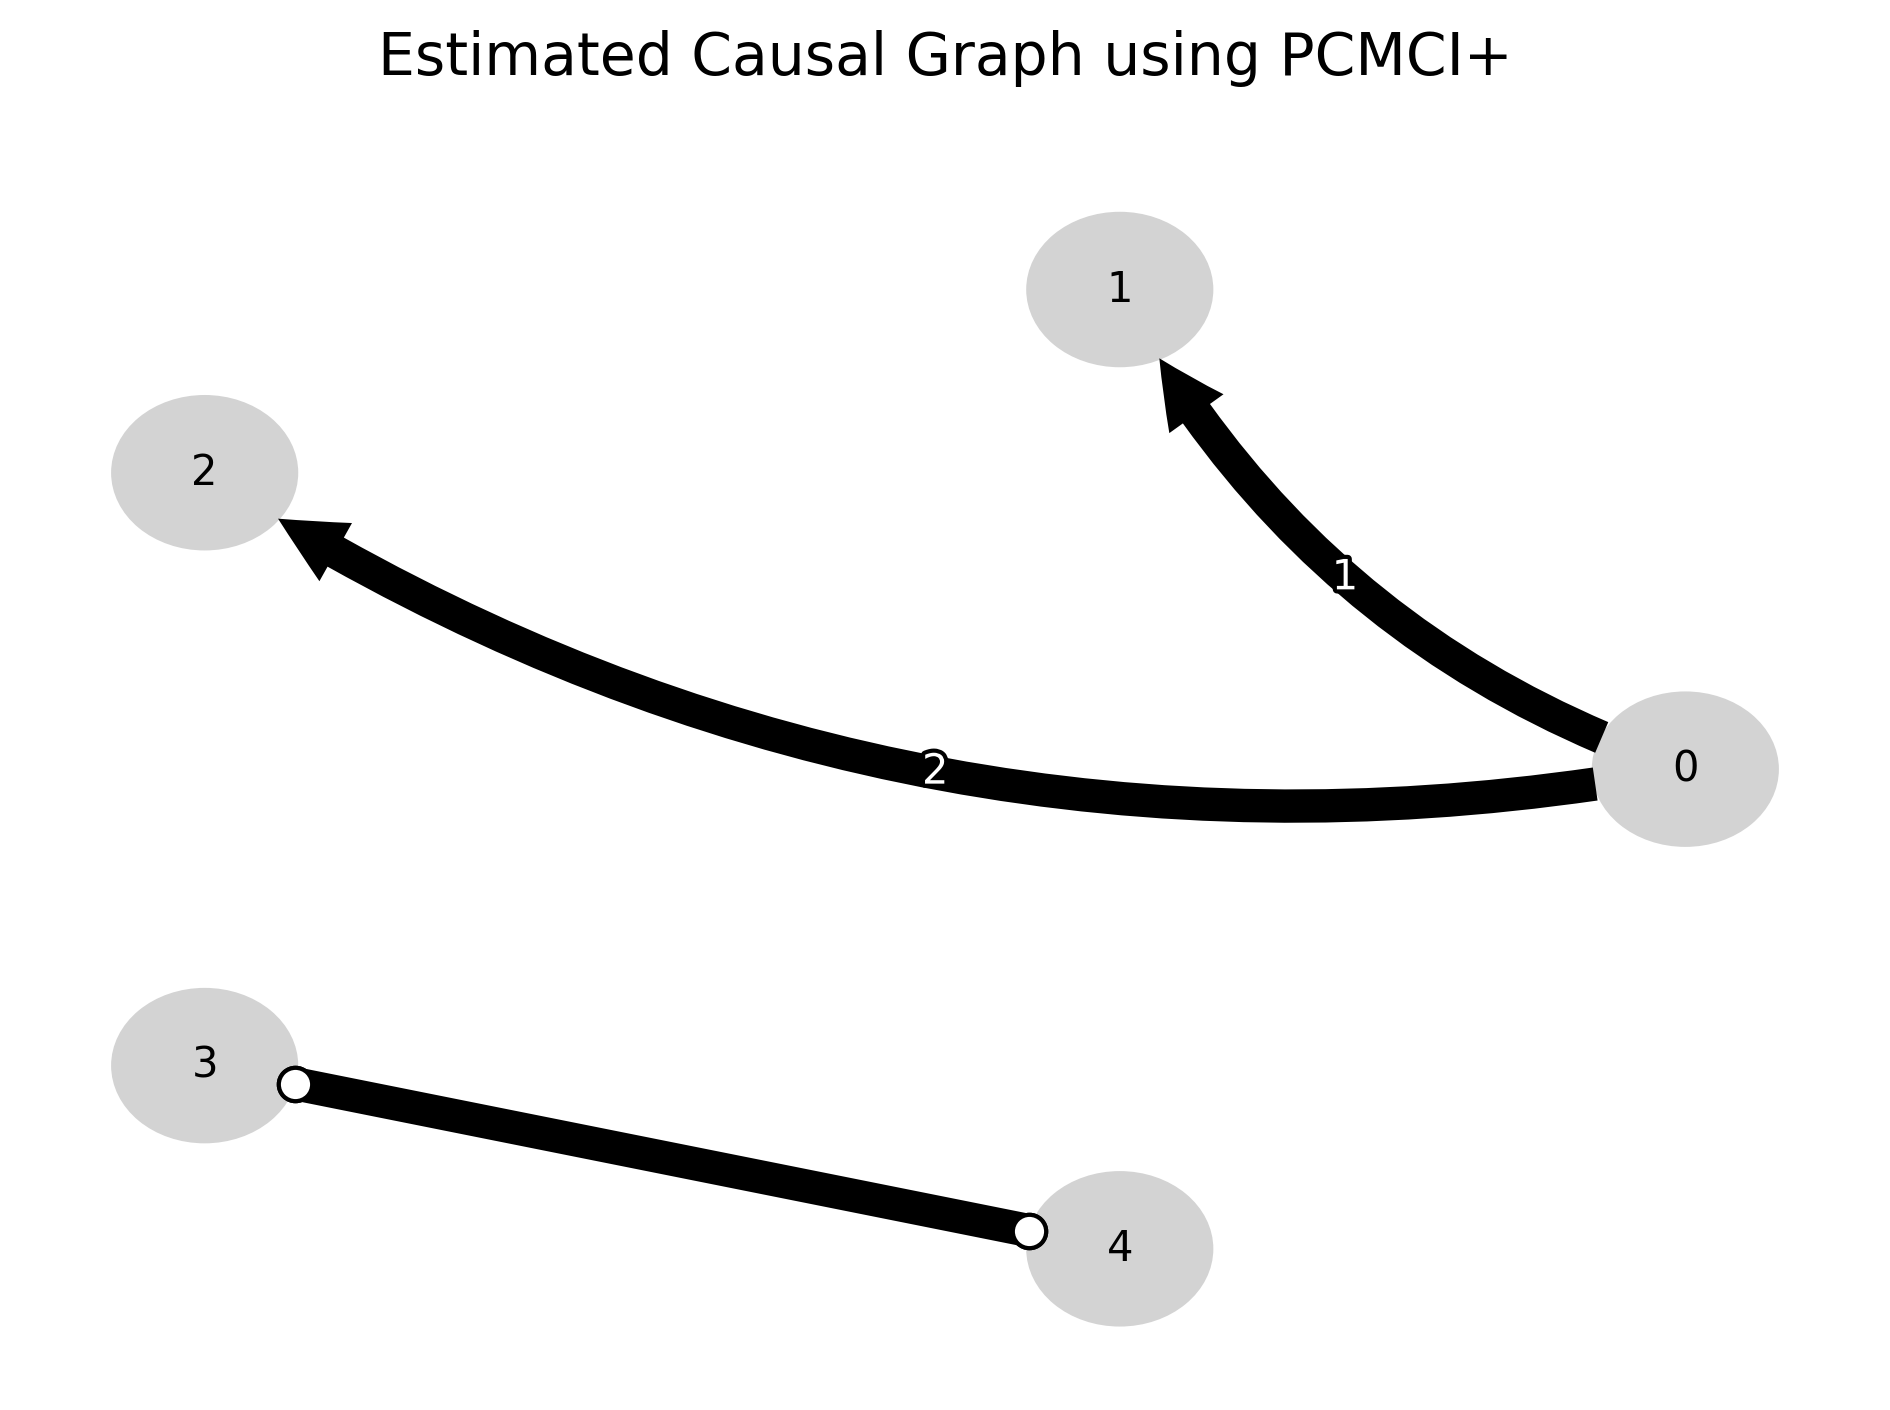
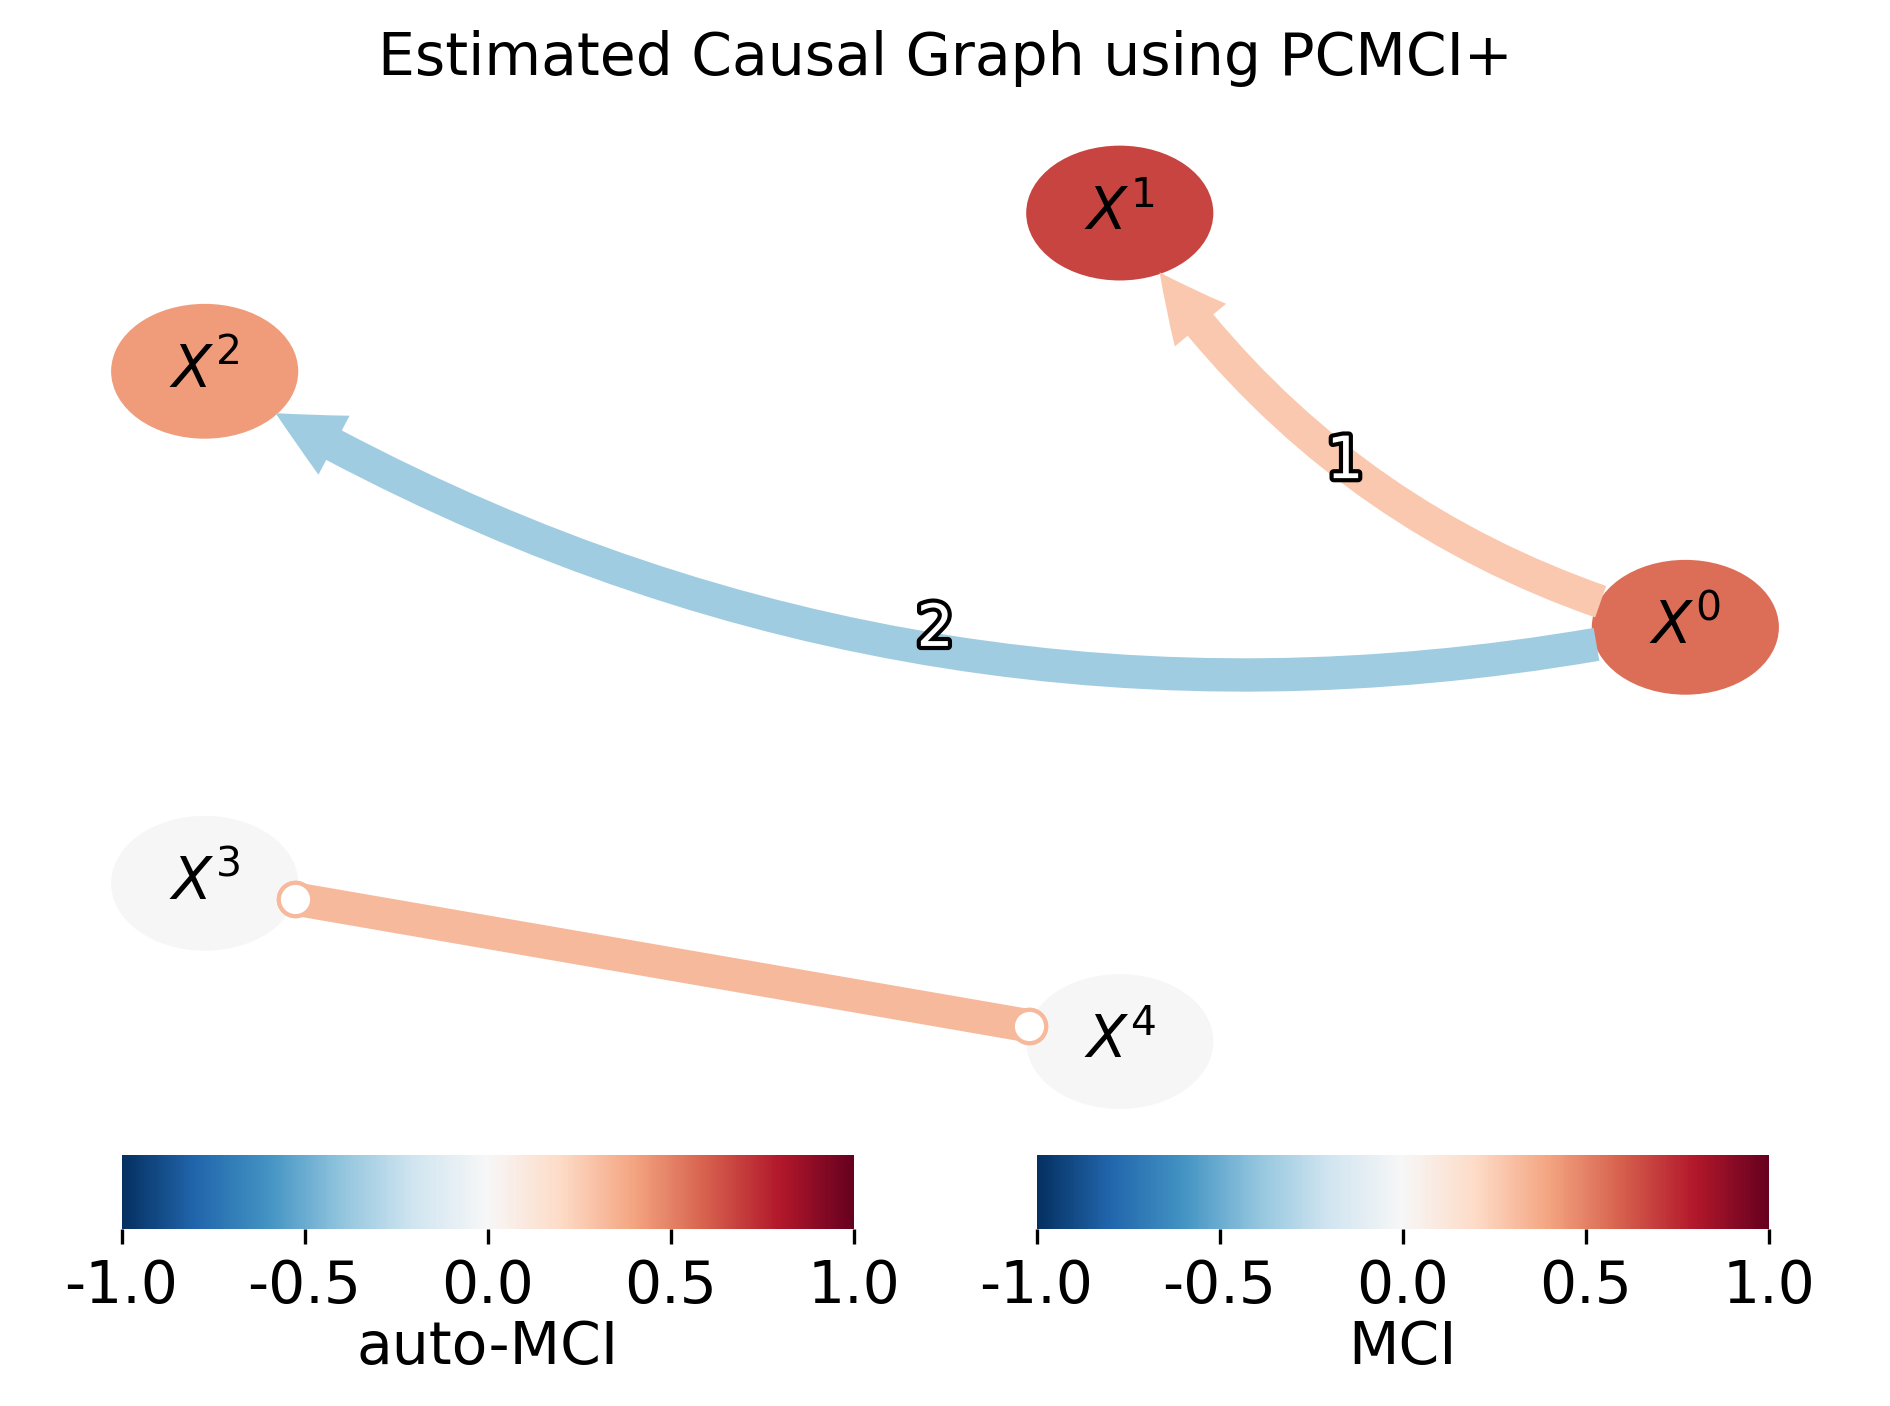
250703

diff --git a/tutorial-test/250702.py b/tutorial-test/250702.py
@@ -73,8 +73,8 @@ dataframe = pp.DataFrame(data,
 tp.plot_timeseries(dataframe=dataframe) # 将生成的数据可视化为时间序列图
 plt.suptitle("Observed Time Series Data", fontsize=16)
 plt.tight_layout()
-plt.savefig('timeseries_plot.png', dpi=300, bbox_inches='tight')
-plt.show()
+# plt.savefig('timeseries_plot.png', dpi=300, bbox_inches='tight')
+# plt.show()
 
 
 """
@@ -90,14 +90,26 @@ pcmci = PCMCI(
     cond_ind_test=parcorr,
     verbosity=0)
 original_correlations = pcmci.get_lagged_dependencies(tau_max=tau_max, val_only=True)['val_matrix']
-lag_func_matrix = tp.plot_lagfuncs(val_matrix=original_correlations, setup_args={
-            'var_names':var_names,'x_base':5, 'y_base':.5})
+
+# 先创建一个空白画布
+lag_func_matrix = tp.setup_matrix(
+    N=N,
+    tau_max=tau_max,
+    x_base=5,
+    figsize=(10, 10),
+    var_names=var_names,
+    y_base=5
+)
+
+# 然后手动添加滞后函数曲线
+lag_func_matrix.add_lagfuncs(
+    val_matrix=original_correlations,
+    color='black'
+)
+
+# 添加总标题
+plt.suptitle("Lagged Correlation Functions", fontsize=16, y=0.98)
 # lag_func_matrix.savefig('lag_functions_plot.png')
-# 添加标题
-plt.suptitle("Lagged Correlation Functions", fontsize=16)
-plt.tight_layout()  # 自动调整子图间距
-plt.gcf().savefig('lag_functions_plot.png', dpi=300, bbox_inches='tight')
-plt.show()
 
 """
 *****************************************************************
@@ -105,12 +117,24 @@ plt.show()
 不是真实的因果图，而是通过PCMCI+算法从观测数据中学习到的因果图
 """
 results = pcmci.run_pcmciplus(tau_max=tau_max, pc_alpha=0.01)
-tp.plot_graph(results['graph'])
+tp.plot_graph(results['graph'],
+              val_matrix=results['val_matrix'],
+              var_names=var_names,
+              link_colorbar_label='MCI',
+              node_colorbar_label='auto-MCI',
+              link_label_fontsize=14,
+              label_fontsize=14,
+              tick_label_size=14,
+              node_label_size=14,
+              edge_ticks=0.5,
+              node_ticks=0.5,
+              node_size=0.3
+              )
 # 添加标题
-plt.title("Estimated Causal Graph using PCMCI+", fontsize=14, pad=20)
+plt.title("Estimated Causal Graph using PCMCI+", fontsize=14)
 plt.tight_layout()
-plt.savefig('causal_graph.png', dpi=300, bbox_inches='tight')
-plt.show()
+# plt.savefig('causal_graph.png', dpi=300, bbox_inches='tight')
+# plt.show()
 
 
 """
@@ -160,10 +184,9 @@ lag_func_matrix.add_lagfuncs(val_matrix=correlation_interval[1], color='grey')
 lag_func_matrix.add_lagfuncs(val_matrix=original_correlations, color='red')
 # lag_func_matrix.savefig('compare_lag_functions.png')
 # 添加标题
-plt.suptitle("Lagged Correlation Comparison", fontsize=16)
-plt.tight_layout()  # 自动调整子图间距
-plt.gcf().savefig('compare_lag_functions.png', dpi=300, bbox_inches='tight')
-plt.show()
+plt.suptitle("Lagged Correlation Comparison", fontsize=16, y=0.95)
+# plt.gcf().savefig('compare_lag_functions.png', dpi=300, bbox_inches='tight')
+# plt.show()
 
 
 """
@@ -174,8 +197,25 @@ pcmci = PCMCI(
     dataframe=dataframe,
     cond_ind_test=parcorr,
     verbosity=0)
-original_correlations_pvals = pcmci.get_lagged_dependencies(tau_max=tau_max)['p_matrix']  # 计算滞后依赖的 p 值（显著性检验）
-tp.plot_graph(graph=original_correlations_pvals<=0.01); # 绘制显著相关性图（根据 p 值 ≤ 0.01 的阈值）
+#original_correlations_pvals = pcmci.get_lagged_dependencies(tau_max=tau_max)['p_matrix']  # 计算滞后依赖的 p 值（显著性检验）  越小越相关
+# 获取偏相关系数和对应的 p 值
+dependencies = pcmci.get_lagged_dependencies(tau_max=tau_max, val_only=False)
+original_correlations = dependencies['val_matrix']
+original_correlations_pvals = dependencies['p_matrix']
+# print(original_correlations)
+tp.plot_graph(graph=original_correlations_pvals<=0.01,
+              val_matrix=original_correlations,
+              var_names=var_names,
+              link_colorbar_label='Partial correlation',
+              node_colorbar_label='auto-correlation',
+              link_label_fontsize=14,
+              label_fontsize=14,
+              tick_label_size=14,
+              node_label_size=14,
+              edge_ticks=0.5,
+              node_ticks=0.5,
+              node_size=0.3
+              ) # 绘制显著相关性图（根据 p 值 ≤ 0.01 的阈值）
 # 将 p 值小于等于 0.01 的边标记为显著相关，绘制这些显著关系构成的图结构
 plt.title("Significant correlation graph", fontsize=14, pad=20)
 plt.tight_layout()
